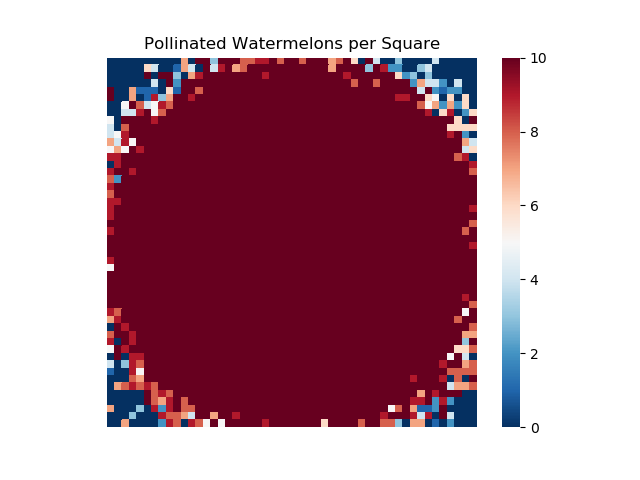
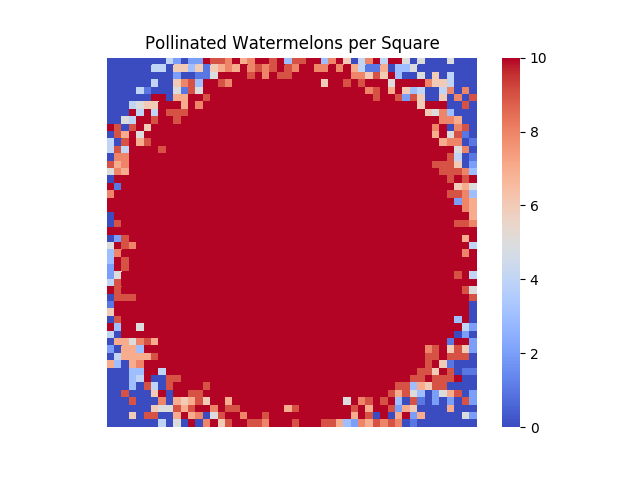
changed figures

diff --git a/Simulate.py b/Simulate.py
@@ -4,7 +4,7 @@ import matplotlib.pyplot as plt
 import seaborn as sns
 from TransMatrix import *
 
-hives = [(15, 15),(35, 35)]
+hives = [(25, 25)]
 dims = 50
 size = 4500
 trans_mat = transmat_simple(dims)
